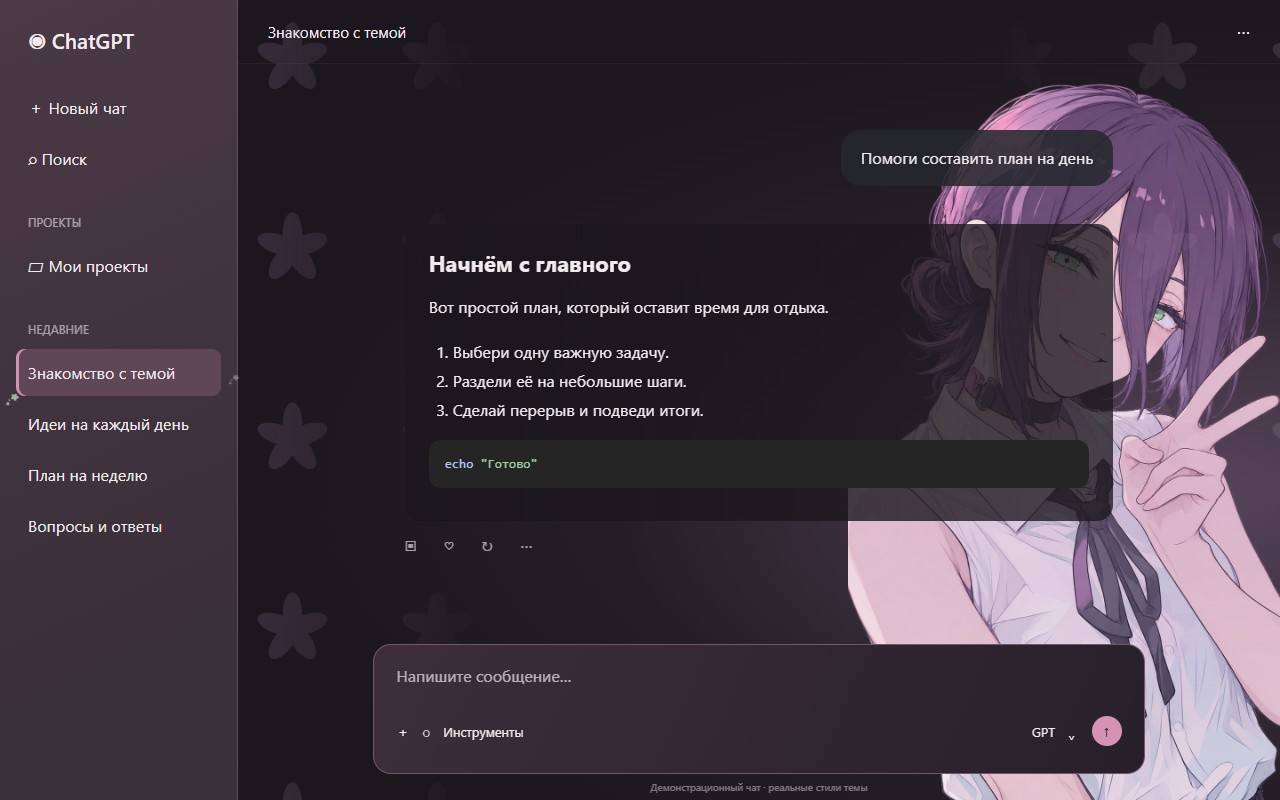
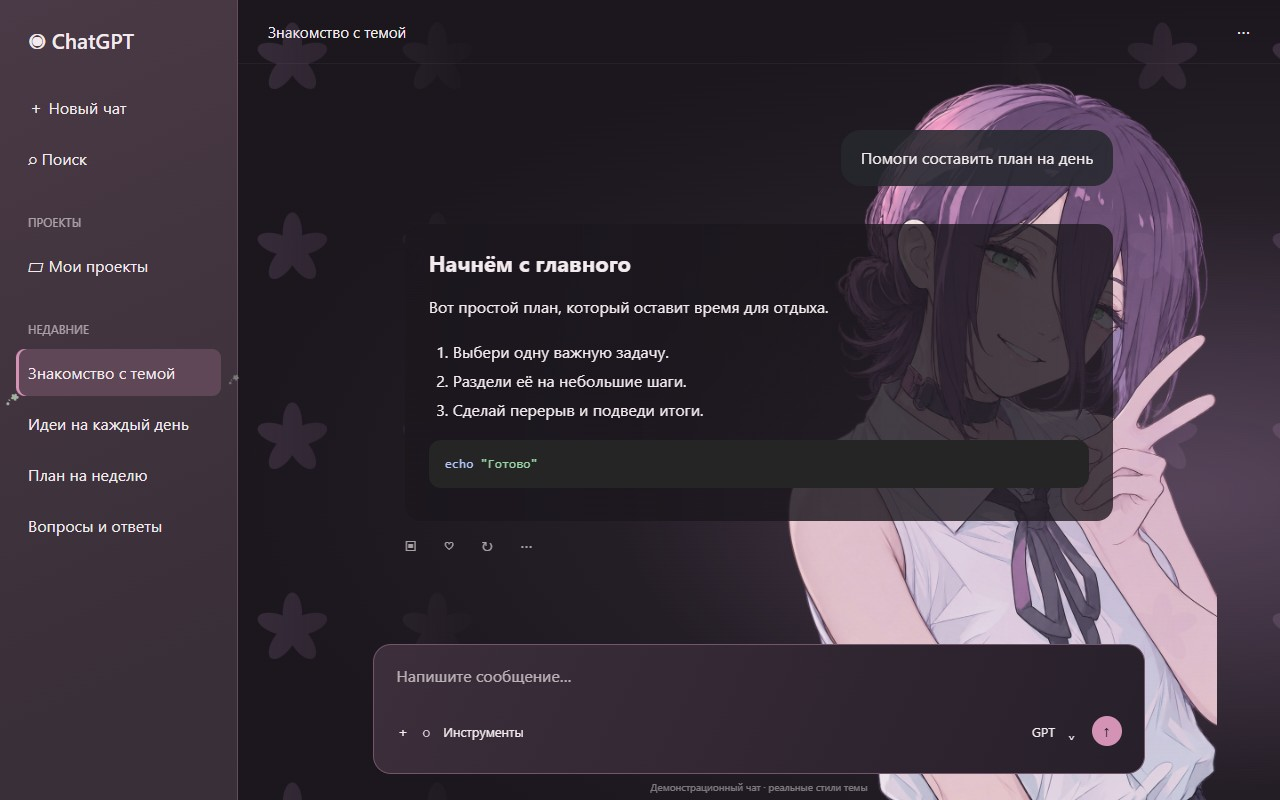
Complete Reze shoulder and shift portrait left

Changed region(s): [[0.5938, 0.0938, 1.0, 1.0]]

diff --git a/themes/reze-night-bloom/theme.css b/themes/reze-night-bloom/theme.css
@@ -207,4 +207,4 @@ html.codex-theme-studio .main-surface:not(.main-surface .main-surface)::after {
  -webkit-mask-image:none !important;
 }
 
-html.codex-theme-studio .main-surface:not(.main-surface .main-surface)::before {inset:auto 0 0 auto;height:90%;width:55%;aspect-ratio:auto;background-size:contain;background-position:right bottom;}
+html.codex-theme-studio .main-surface:not(.main-surface .main-surface)::before {inset:auto 6% 0 auto;height:90%;width:55%;aspect-ratio:auto;background-size:contain;background-position:right bottom;}
